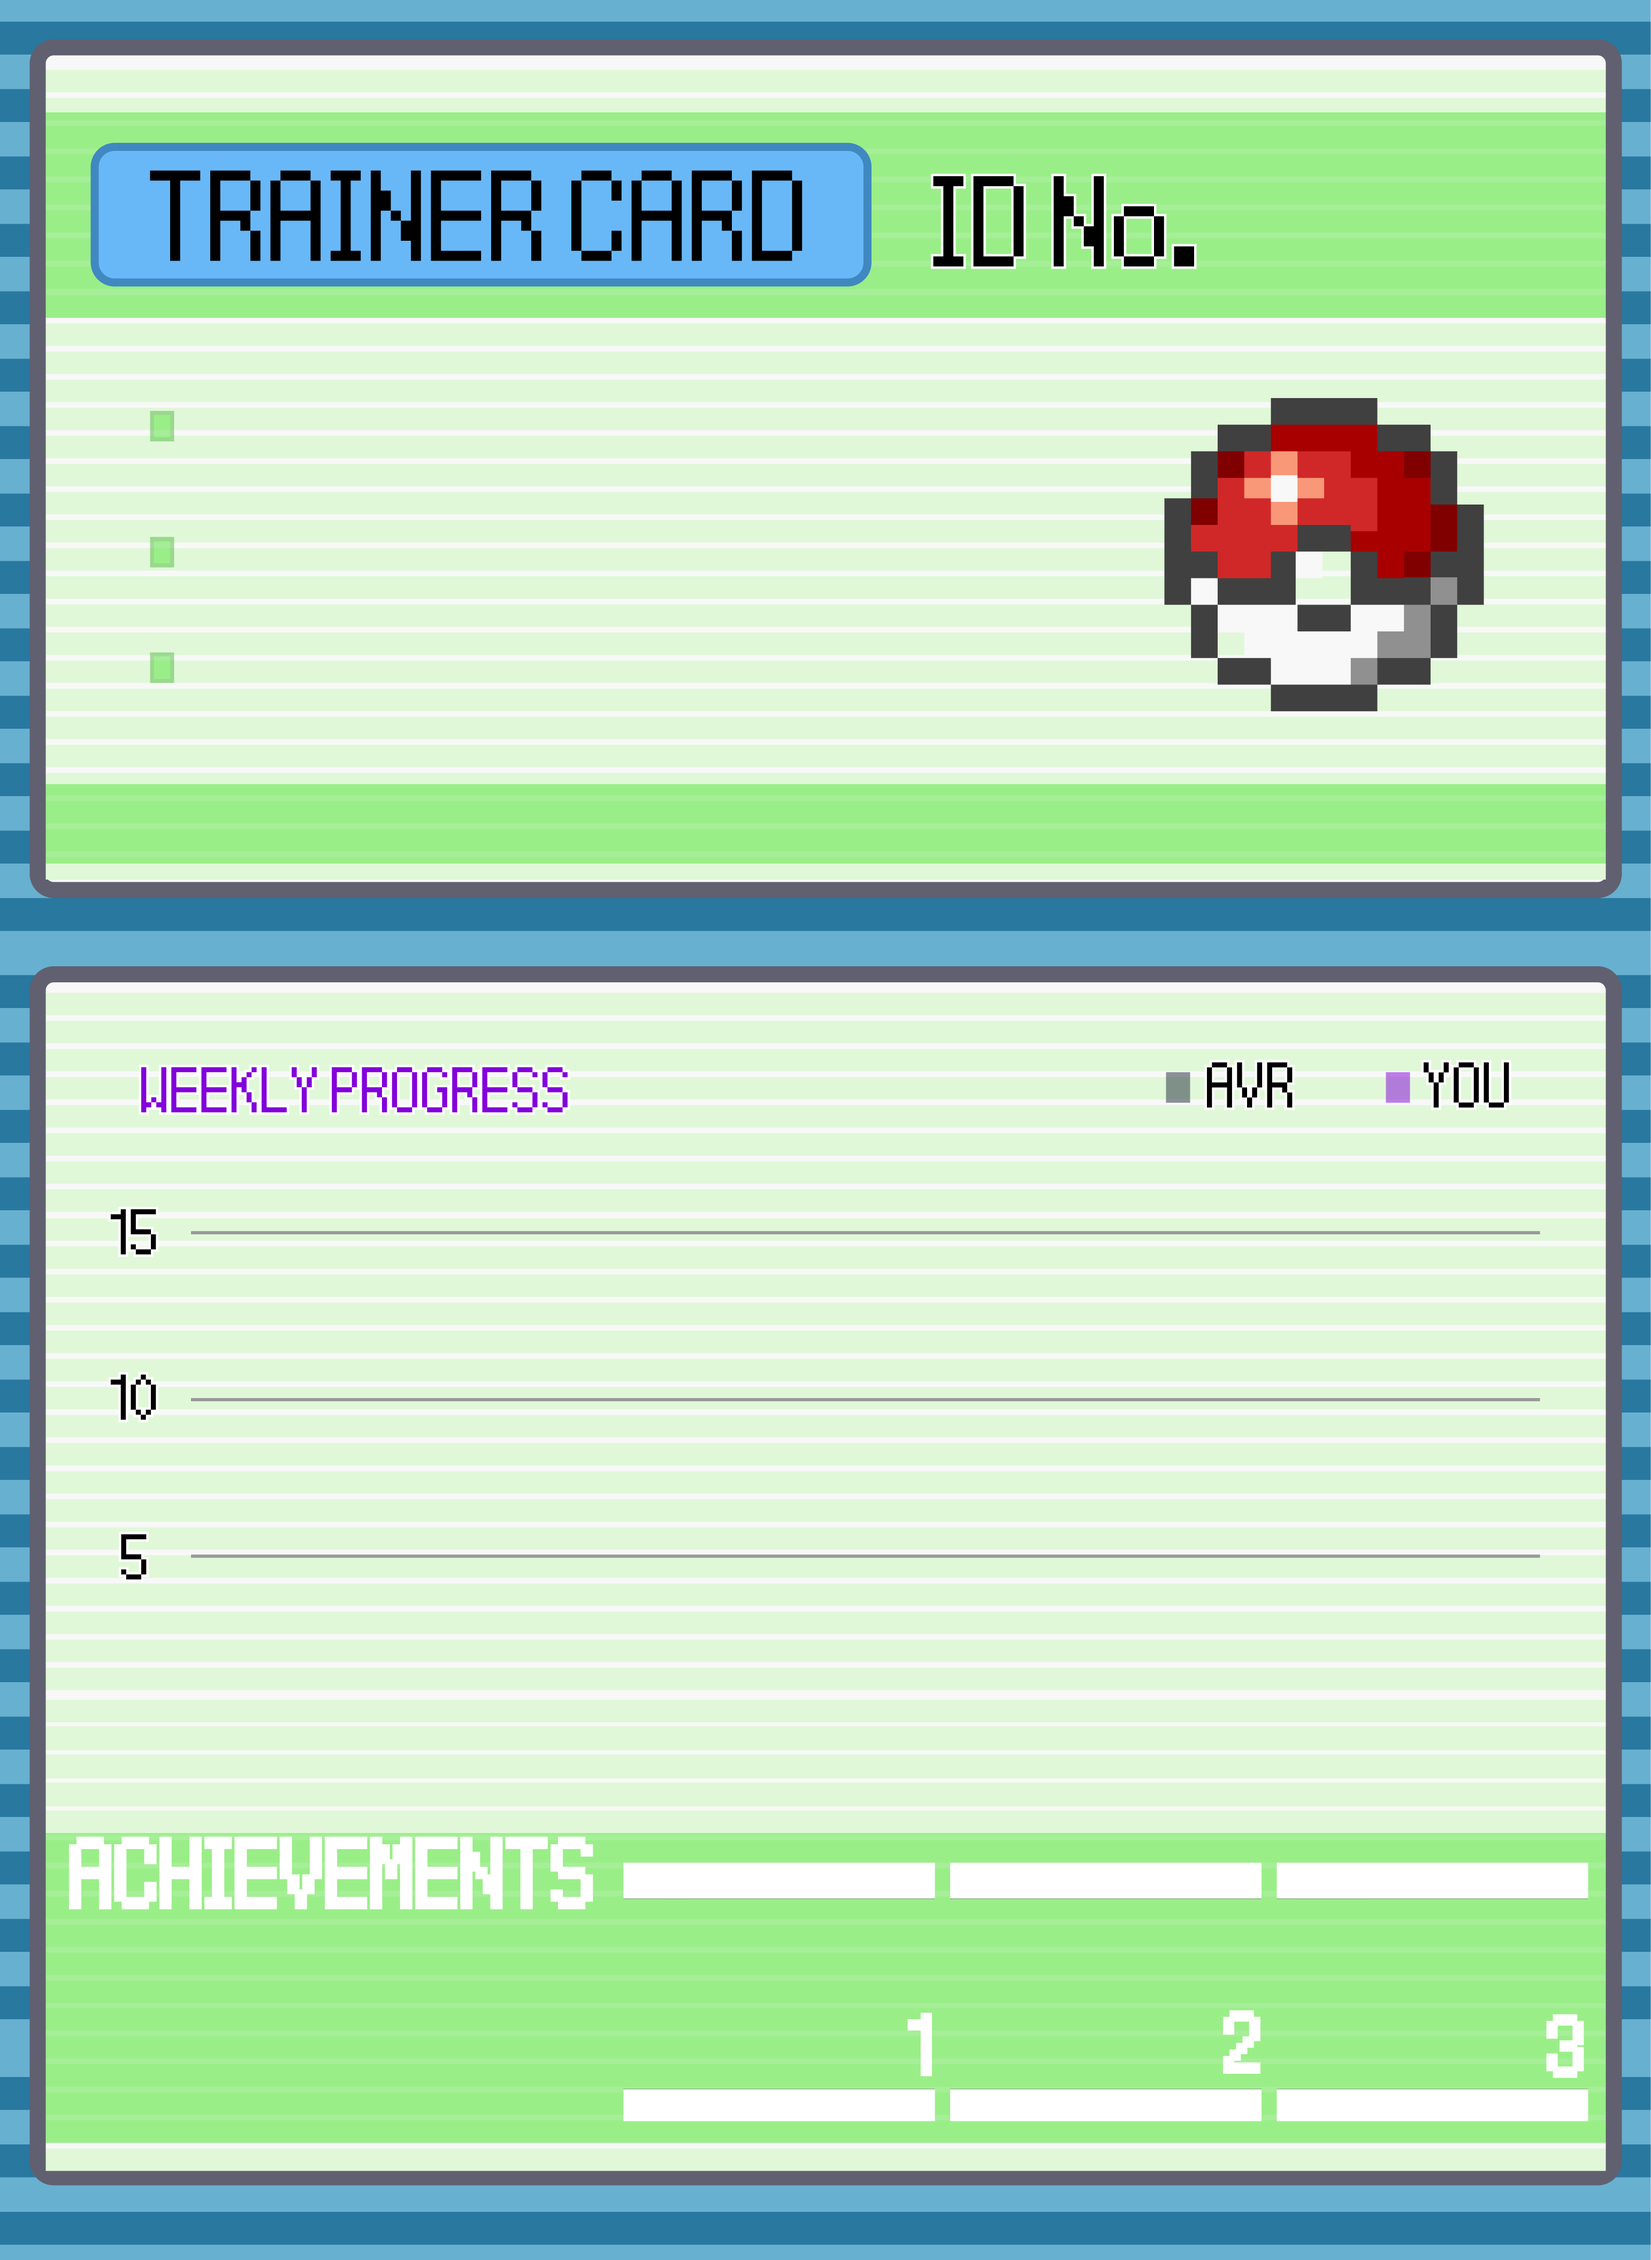
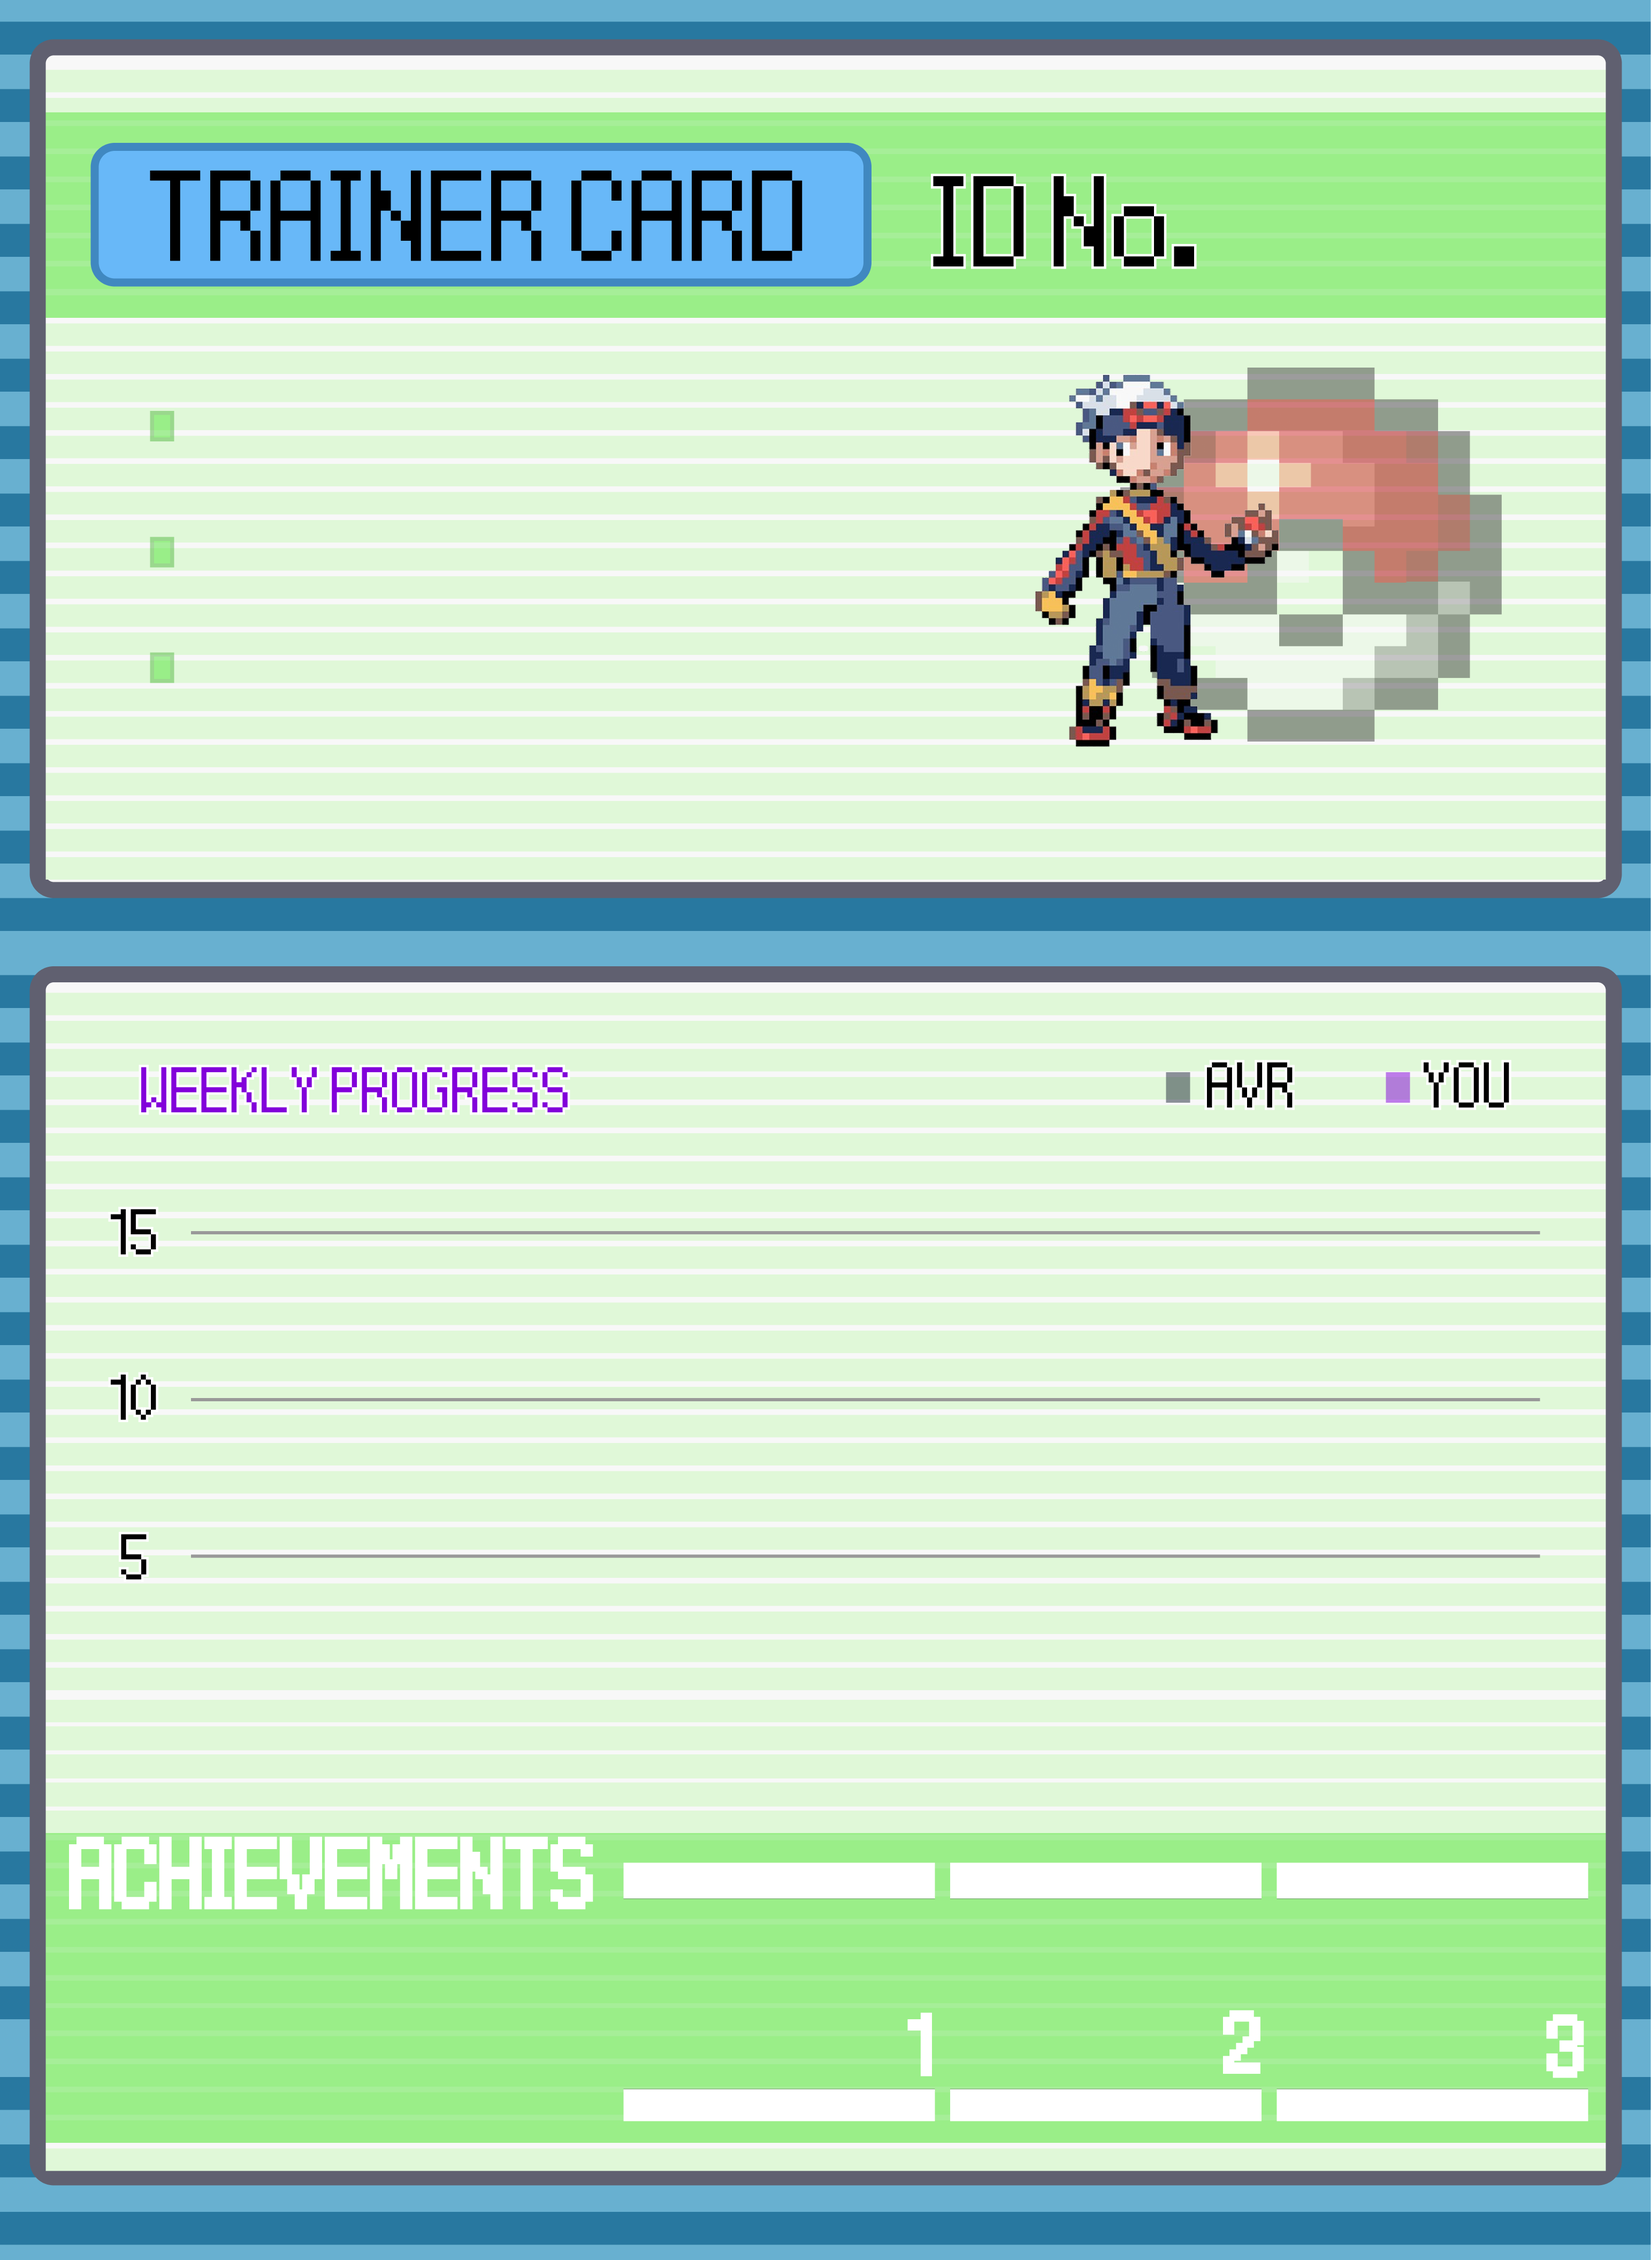
내정보 카드 수정, 경험치 바 추가

Changed region(s): [[0.0, 0.1562, 0.9955, 0.4062]]

diff --git a/front-end/src/components/MyPage.tsx b/front-end/src/components/MyPage.tsx
@@ -156,6 +156,7 @@ export function MyPage({ onHome, onLogout, onUpdateInfo }: MyPageProps) {
             rank: { x: 1759, y: 2464 },
         },
     };
+    const expGaugeValue = profileData ? Math.max(0, Math.min(100, profileData.exp % 100)) : 0;
 
     const cardSize1 = { width: 2057, height: 2816 }; // slot.png 원본 사이즈
     const cardCoords1 = {
@@ -261,7 +262,16 @@ export function MyPage({ onHome, onLogout, onUpdateInfo }: MyPageProps) {
                             >
                                 <div className="leading-tight">NICKNAME: {cardData.nickname}</div>
                                 <div className="leading-tight" style={{ marginTop: "20px" }}>EMAIL: {cardData.email}</div>
-                                <div className="leading-tight" style={{ marginTop: "20px" }}>EXP: {cardData.exp}</div>
+                                <div className="leading-tight" style={{ marginTop: "20px" }}>
+                                    EXP: {cardData.exp}
+                                    <div className="mt-2 w-44 h-2.5 bg-white/70 rounded-full overflow-hidden border border-purple-200 shadow-sm">
+                                        <div
+                                            className="h-full bg-gradient-to-r from-purple-400 to-pink-400"
+                                            style={{ width: `${expGaugeValue}%` }}
+                                        />
+                                    </div>
+                                    <div className="text-[11px] text-gray-700 mt-1">현재 경험치: {expGaugeValue} / 100</div>
+                                </div>
                             </div>
                             {/* Achievements row (하단 흰색 두 줄 사이) */}
                             <div
